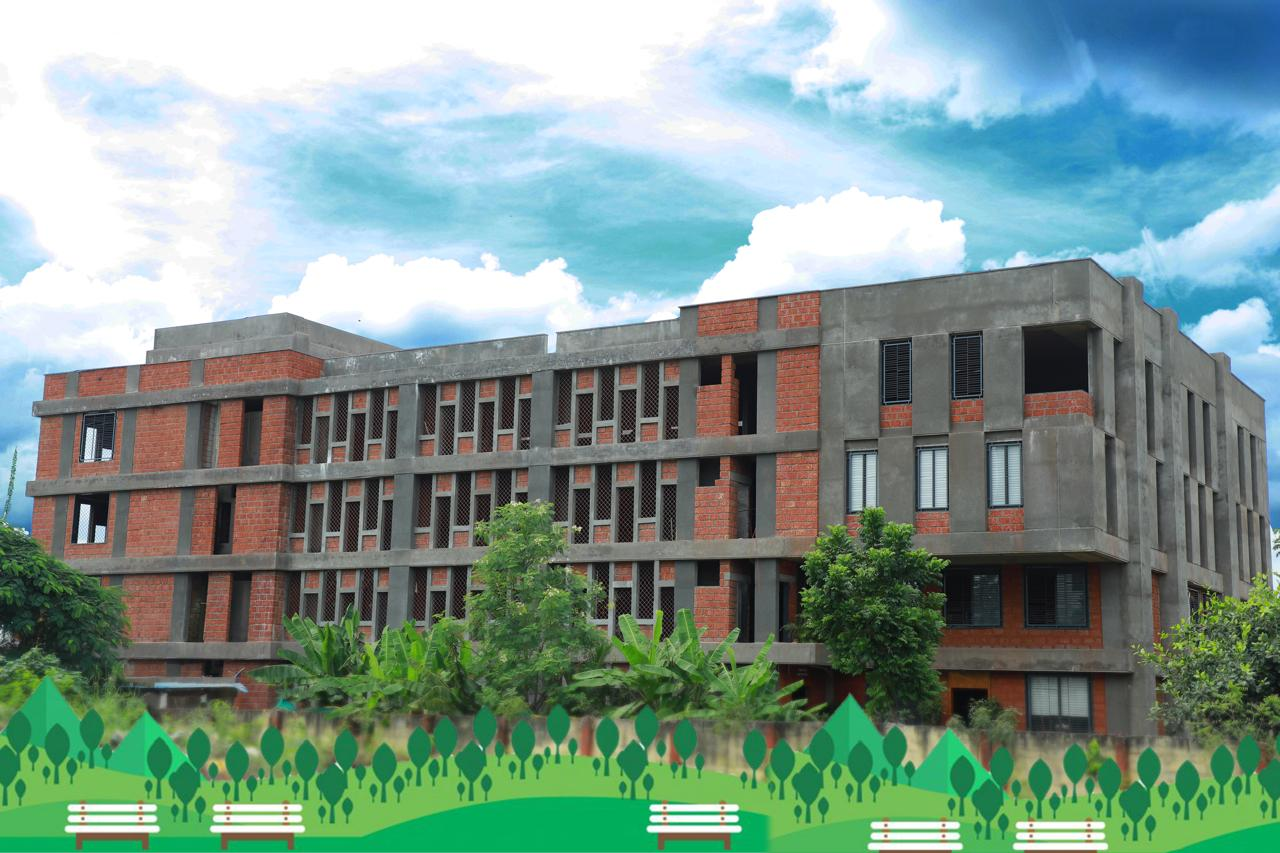
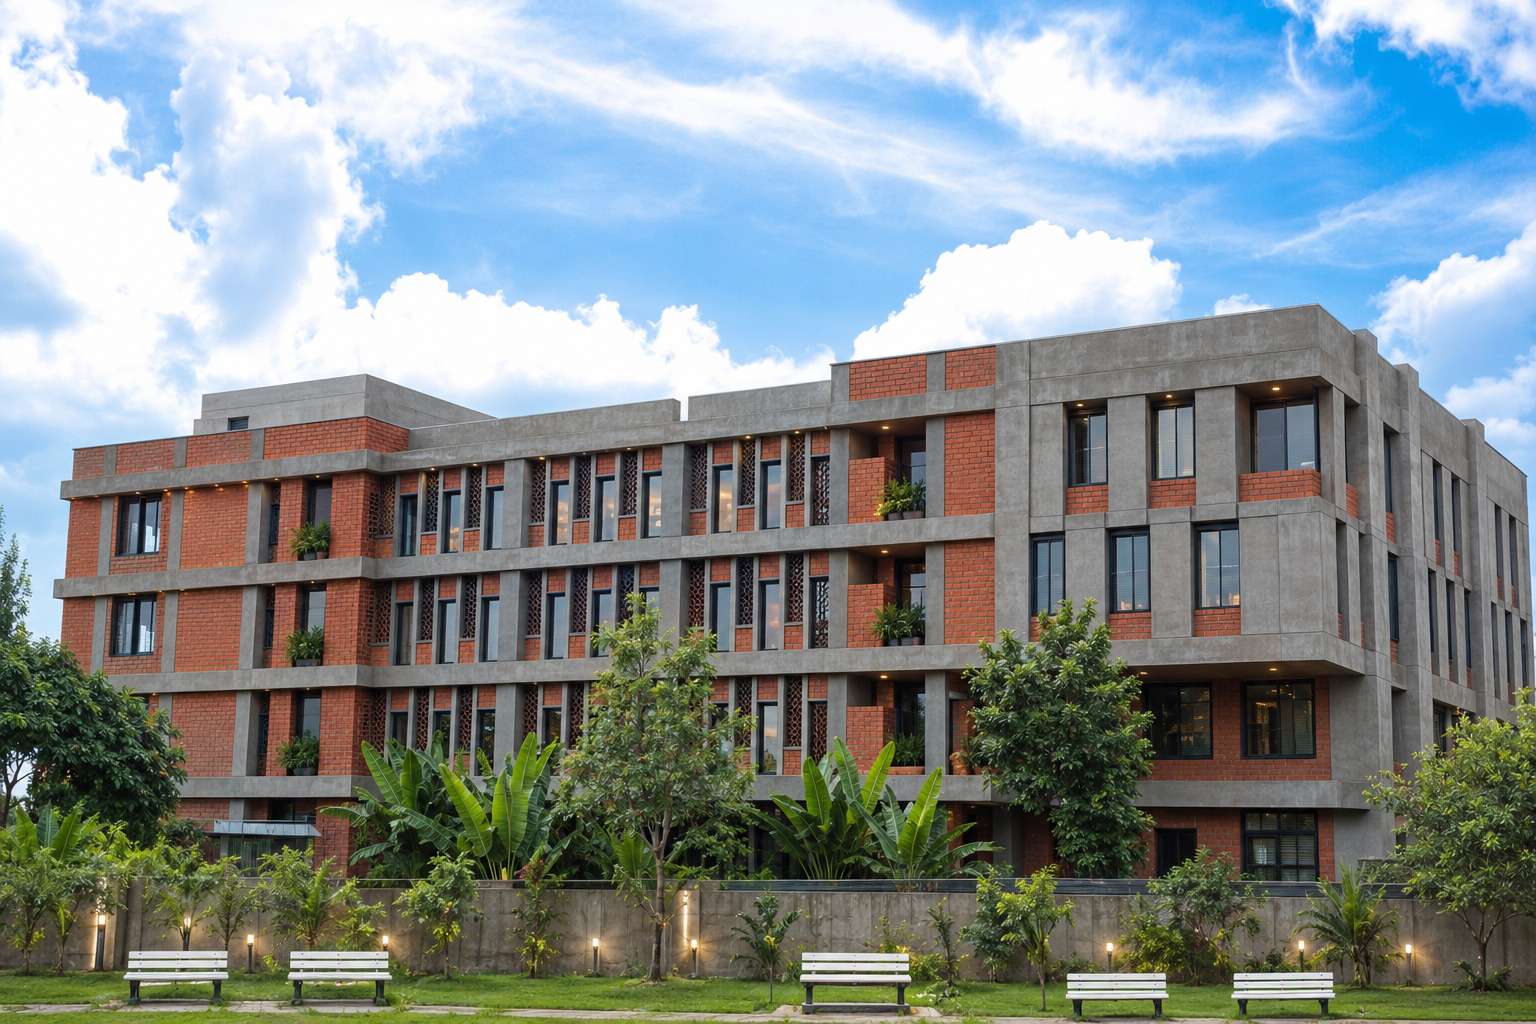
feat(hero): new hero image with a softly blurred foreground
Replaces images/01-hero.jpg with the owner-supplied render of the campus
(1536x1024, progressive JPEG q92, 4:4:4 subsampling, 563 KB). Same native
resolution as supplied — no upscale, no re-compression of an already-lossy
source.

Adds a depth-of-field treatment to the lower half: a masked duplicate of the
hero image at blur(14px), fading in from 48% to fully blurred by 88%. The
building and sky stay crisp; the lawn and benches melt under the headline
and CTAs.

Implemented as a duplicate <img> rather than backdrop-filter on purpose —
the blur rasterises once instead of re-computing every frame under the
mobile Ken Burns zoom, which loops continuously for 18s. It lives inside
.hero-media so it inherits that zoom and stays in register with the sharp
layer. Same src, so it costs no extra download (verified: one request).

Verified at 1440/1024/768/390: blur + mask applied, no horizontal overflow,
no console errors, hero height unchanged.

diff --git a/index.html b/index.html
@@ -527,6 +527,29 @@
     }
     .hero-media { position: absolute; inset: 0; overflow: hidden; }
     .hero-media > * { width: 100%; height: 100%; }
+    /* Softly blurred foreground — the building and sky stay crisp while the
+       lawn and benches melt under the headline. Implemented as a masked
+       duplicate of the hero image rather than backdrop-filter, so the blur
+       rasterises once instead of re-computing every frame under the mobile
+       Ken Burns zoom (that runs 18s on loop; a live backdrop blur over half
+       the viewport is exactly the wrong thing to hand a low-end phone).
+       Lives inside .hero-media so it inherits the same zoom and stays in
+       register with the sharp layer. */
+    .hero-blur {
+      position: absolute;
+      inset: 0;
+      object-fit: cover;
+      filter: blur(14px);
+      pointer-events: none;
+      -webkit-mask-image: linear-gradient(180deg,
+        rgba(0, 0, 0, 0) 48%,
+        rgba(0, 0, 0, 0.55) 68%,
+        rgba(0, 0, 0, 1) 88%);
+      mask-image: linear-gradient(180deg,
+        rgba(0, 0, 0, 0) 48%,
+        rgba(0, 0, 0, 0.55) 68%,
+        rgba(0, 0, 0, 1) 88%);
+    }
     /* Ken Burns slow zoom — mobile only, breaks up long vertical scroll on phones */
     @media (max-width: 768px) {
       .hero .hero-media img {
@@ -2249,6 +2272,14 @@
           src="images/01-hero.jpg"
           alt="Dnyanprakash school building exterior with landscaped foreground"
           class="w-full h-full object-cover"
+        />
+        <!-- Blurred duplicate, masked to fade in over the lower half. Same
+             src, so it is served from cache — no second download. -->
+        <img
+          src="images/01-hero.jpg"
+          alt=""
+          aria-hidden="true"
+          class="hero-blur"
         />
       </div>
       <div class="hero-overlay" aria-hidden="true"></div>
